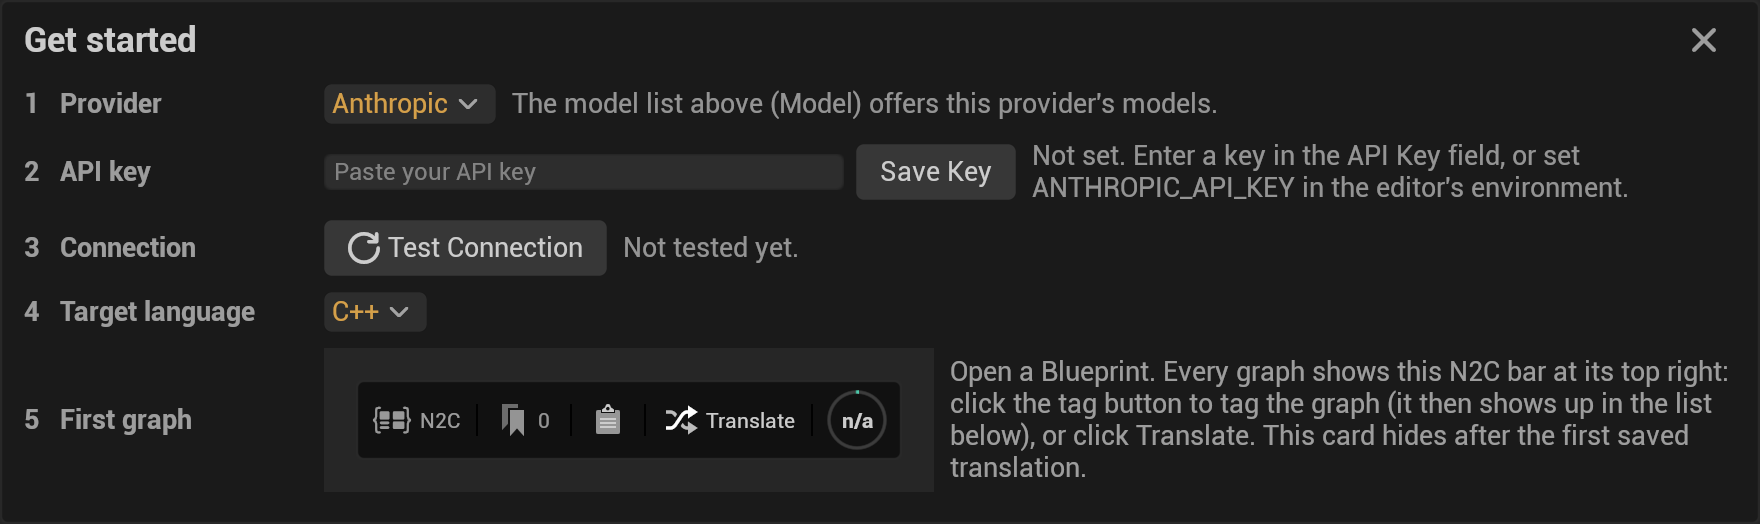
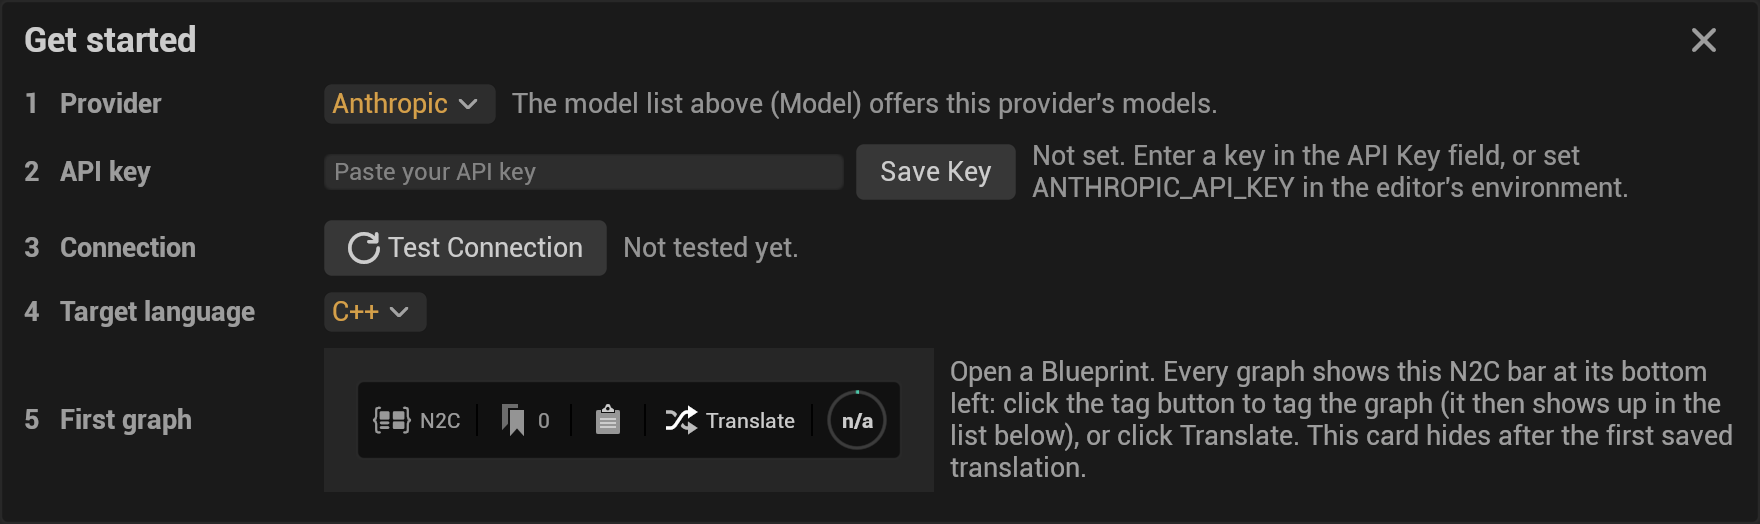
fix(ui): the Get Started card, the empty tag tree and the agent page put the N2C bar at the bottom left, where it is (card 0520)
The overlay injector places the N2C bar at the bottom left of every graph (HAlign_Left, VAlign_Bottom), but the Get
Started card's first-graph hint, the empty category tree's text, the SN2CGraphOverlay header comment and the
Context/ui row said "top right". They now say "bottom left". The main-window docs shots are retaken with the new text,
and get-started.png and first-run.png are embedded in Viewing-the-Results ("Your first visit"). A pytest fails on any
source, Context or wiki line that puts the N2C bar (or SN2CGraphOverlay) at the top right, and checks the injector's
alignment.

Verified: build.ps1 -All -Smoke -Test on 5.6, 5.7 and 5.8 (see PR body). Catch check: with the text fix stashed,
test_n2c_bar_position.py fails (5 hits); restored, it passes. Shots retaken offscreen with capture.py --group
main-window on 5.8 and looked at; computer use is denied.

Docs: wiki/Viewing-the-Results.md, wiki/images/main-window, Context/ui/AGENTS-ui.md

Changed region(s): [[0.5312, 0.6718, 1.0, 0.855]]

diff --git a/Tests/python/test_n2c_bar_position.py b/Tests/python/test_n2c_bar_position.py
@@ -1,0 +1,36 @@
+# Copyright (c) 2026 Nick McClure (Protospatial)
+# SPDX-License-Identifier: Apache-2.0
+"""
+Where the N2C bar is (card 0520): FN2CGraphOverlayInjector::InjectOverlay puts it at the bottom left of a graph
+(HAlign_Left, VAlign_Bottom). A UI string, header comment or agent page that places the bar at the top right sends
+users to the wrong corner.
+"""
+
+import os
+import re
+
+from conftest import REPO_ROOT
+
+INJECTOR = os.path.join(REPO_ROOT, 'Source', 'Private', 'Core', 'N2CGraphOverlayInjector.cpp')
+SEARCHED = [os.path.join(REPO_ROOT, 'Source'), os.path.join(REPO_ROOT, 'Context'), os.path.join(REPO_ROOT, 'wiki')]
+# A sentence that names the bar (or its widget) and a top-right corner
+WRONG = re.compile(r'(N2C bar|SN2CGraphOverlay|graph overlay|Overlay widget)[^.\n]*top[- ]right', re.I)
+
+
+def test_the_injector_puts_the_bar_at_the_bottom_left():
+    text = open(INJECTOR, encoding='utf-8').read()
+    assert '.HAlign(HAlign_Left)' in text and '.VAlign(VAlign_Bottom)' in text
+
+
+def test_no_text_puts_the_bar_at_the_top_right():
+    hits = []
+    for root in SEARCHED:
+        for base, _, names in os.walk(root):
+            for name in names:
+                if not name.endswith(('.cpp', '.h', '.md')):
+                    continue
+                path = os.path.join(base, name)
+                for number, line in enumerate(open(path, encoding='utf-8', errors='replace'), 1):
+                    if WRONG.search(line):
+                        hits.append('%s:%d' % (os.path.relpath(path, REPO_ROOT), number))
+    assert not hits, 'the N2C bar is at the bottom left of a graph: %s' % hits

diff --git a/Source/Private/Core/Widgets/SN2CGetStartedCard.cpp b/Source/Private/Core/Widgets/SN2CGetStartedCard.cpp
@@ -294,7 +294,7 @@ void SN2CGetStartedCard::Construct(const FArguments& InArgs)
 					.Padding(FN2CSpacing::MD, 0.0f, 0.0f, 0.0f)
 					[
 						SNew(STextBlock)
-						.Text(LOCTEXT("TagHint", "Open a Blueprint. Every graph shows this N2C bar at its top right: click the tag button to tag the graph (it then shows up in the list below), or click Translate. This card hides after the first saved translation."))
+						.Text(LOCTEXT("TagHint", "Open a Blueprint. Every graph shows this N2C bar at its bottom left: click the tag button to tag the graph (it then shows up in the list below), or click Translate. This card hides after the first saved translation."))
 						.AutoWrapText(true)
 						.ColorAndOpacity(N2C::UI::Bind(&FN2CUIColors::TextSecondary))
 					])

diff --git a/Source/Private/Core/Widgets/SN2CTagCategoryTree.cpp b/Source/Private/Core/Widgets/SN2CTagCategoryTree.cpp
@@ -101,7 +101,7 @@ FText SN2CTagCategoryTree::GetEmptyText() const
 	{
 		return FText::Format(LOCTEXT("TreeEmptySearch", "No tag or category matches \"{0}\"."), FText::FromString(CurrentSearchFilter));
 	}
-	return LOCTEXT("TreeEmptyNoTags", "No tagged graphs yet.\n\nOpen a Blueprint, click the tag button on the N2C bar at the top right of a graph, and give the graph a tag. It shows up here.");
+	return LOCTEXT("TreeEmptyNoTags", "No tagged graphs yet.\n\nOpen a Blueprint, click the tag button on the N2C bar at the bottom left of a graph, and give the graph a tag. It shows up here.");
 }
 
 TArray<FN2CTaggedBlueprintGraph> SN2CTagCategoryTree::GetTags() const

diff --git a/Source/Public/Core/Widgets/SN2CGraphOverlay.h b/Source/Public/Core/Widgets/SN2CGraphOverlay.h
@@ -15,7 +15,7 @@ class SN2CCircularProgressBar;
 struct FN2CTagInfo;
 
 /**
- * Overlay widget that appears in the top-right corner of Blueprint graph editors
+ * Overlay widget (the N2C bar) that appears in the bottom-left corner of Blueprint graph editors
  * Provides quick access to:
  * - Copy graph JSON to clipboard
  * - Initiate LLM translation

diff --git a/Context/ui/AGENTS-ui.md b/Context/ui/AGENTS-ui.md
@@ -24,7 +24,7 @@ has its own page: [code editor](../code-editor/AGENTS-code-editor.md). Styling i
 |---|---|
 | `SN2CMainWindow` | The main window: the Get Started card above the Tag Manager, with the Translation Viewer and batch progress overlays |
 | `SN2CGetStartedCard` | First run (card 0269): provider, API key (`UN2CSettings::SetApiKey`), connection test (`FN2CConnectionTest`, `Core/Services`), target language, the N2C bar picture (`NodeToCode.GetStarted.Overlay`, `Resources/get_started_overlay.png`, a copy of the docs shot `translate-entry/graph-overlay.png`). Shows while `UN2CUserSettings::bShowGetStartedCard` is on and `GetGraphsWithTranslation()` is empty. Spec `NodeToCode.UI.GetStarted` (also the tree and viewer empty states and the disabled selection buttons) |
-| `SN2CGraphOverlay` | The overlay in the top right of a graph editor: translate, tag, open the window |
+| `SN2CGraphOverlay` | The N2C bar, injected at the bottom left of a graph editor (`HAlign_Left`, `VAlign_Bottom` in `FN2CGraphOverlayInjector::InjectOverlay`): translate, tag, open the window |
 | `SN2CTranslationViewer` | A translation: generated files in `SN2CCodeEditor`, the N2C JSON, the header bar |
 | `SN2CTagManager`, `SN2CTagCategoryTree`, `SN2CTaggedGraphsList`, `SN2CGraphListRow` | The Tag Manager ([tags and graph state](../tags-graph-state/AGENTS-tags-graph-state.md)) |
 | `SN2CBatchProgressModal` | Progress of a batch translation |

diff --git a/wiki/Viewing-the-Results.md b/wiki/Viewing-the-Results.md
@@ -30,8 +30,12 @@ the macOS Keychain, the same place as the API Key field in Project Settings; Oll
 translate it. The card hides after your first saved translation, or when you close it; **Show Get Started Card** in
 **Editor Preferences → Plugins → Node to Code (User)** brings it back.
 
+<img src="images/main-window/get-started.png" alt="The Get started card: provider, API key, Test Connection, target language and the N2C bar" width="880">
+
 With no tags yet, the tag tree says how to tag a first graph, and a search that matches no tag or category says so.
 The translation viewer with nothing loaded says how to get a translation there, instead of showing an empty editor.
+
+<img src="images/main-window/first-run.png" alt="The window before the first tag: the tag tree says how to tag a first graph" width="880">
 
 ## Tags and the graph list
 
